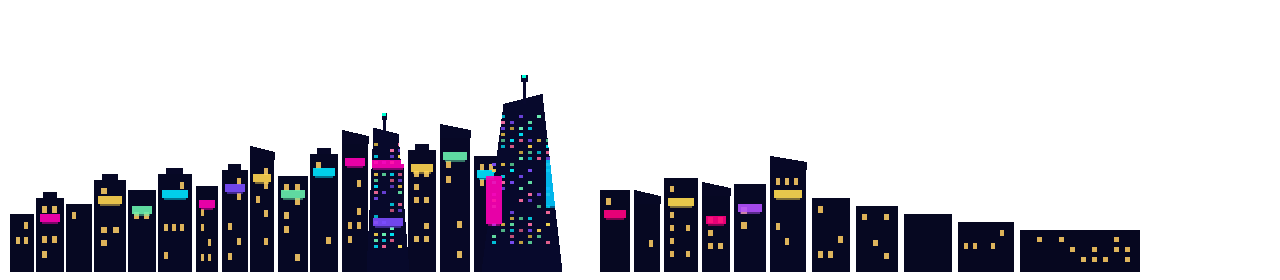
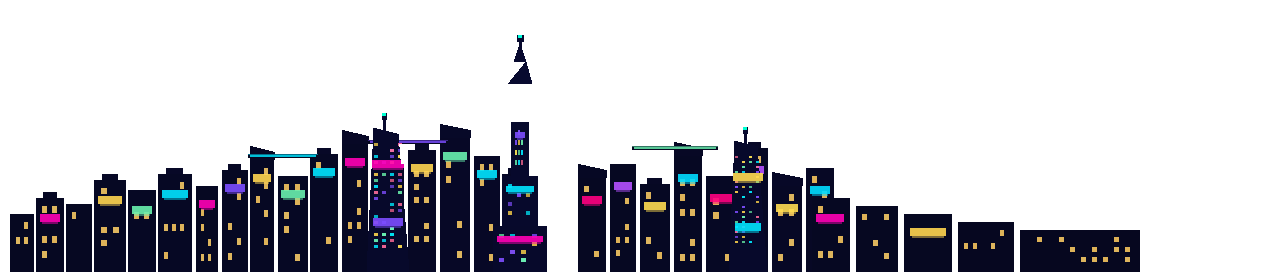
Deploy Stack Rush mobile PWA

diff --git a/index.html b/index.html
@@ -619,7 +619,7 @@
       <div class="section-divider"></div>
       <p class="theme-label">City skyline <span id="cityUnlockHint"></span></p>
       <div class="theme-grid" id="cityGrid"></div>
-      <p class="theme-label" id="buildVer" style="margin-top:10px;opacity:.35;font-size:.62rem;text-align:center;">Build 4c2d0fff</p>
+      <p class="theme-label" id="buildVer" style="margin-top:10px;opacity:.35;font-size:.62rem;text-align:center;">Build cf83333a</p>
       <button class="secondary" id="optionsBackBtn" style="width:100%;margin-top:10px;">Back</button>
     </div>
   </div>
@@ -710,7 +710,7 @@ const MUSIC_TRACKS = [
 
 const SFX_FILES = ['drop', 'land', 'perfect', 'great', 'good', 'slice', 'gameover'];
 const ASSETS_BASE = 'assets/';
-const ASSETS_VER = '4c2d0fff';
+const ASSETS_VER = 'cf83333a';
 const BOARD_KEY = 'stackrush_weekly_board';
 const PLAYER_NAME_KEY = 'stackrush_player_name';
 const BOARD_MAX = 15;
@@ -4090,7 +4090,7 @@ if ('serviceWorker' in navigator) {
     location.reload();
   });
   window.addEventListener('load', () => {
-    navigator.serviceWorker.register('./sw.js?v=4c2d0fff').then((reg) => {
+    navigator.serviceWorker.register('./sw.js?v=cf83333a').then((reg) => {
       reg.update();
       if (reg.waiting) reg.waiting.postMessage({ type: 'SKIP_WAITING' });
       reg.addEventListener('updatefound', () => {

diff --git a/sw.js b/sw.js
@@ -1,5 +1,5 @@
 /* Stack Rush service worker — generated by build_mobile.py */
-const CACHE = 'stackrush-4c2d0fff';
+const CACHE = 'stackrush-cf83333a';
 const ASSETS = [
   "./manifest.webmanifest",
   "./icon.svg",
